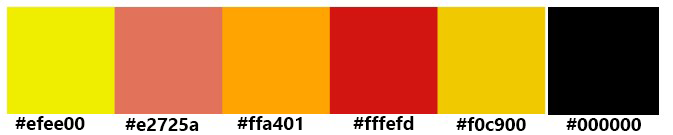
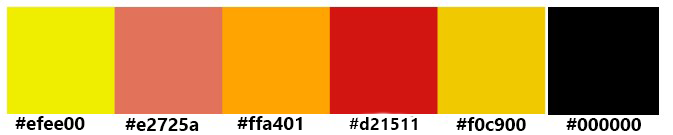
Start on Contact.html
Rae will finish?

Changed region(s): [[0.4993, 0.8296, 0.6241, 0.9778]]

diff --git a/contact.html b/contact.html
@@ -1,0 +1,172 @@
+<!doctype html>
+<html lang="en">
+<head>
+<meta charset="utf-8">
+	<meta name="viewport" content="width=device-width, initial-scale=1">
+<title>FBYD</title>
+<link href="css/bootstrap-grid.min.css">
+<link href="css/style.css" rel="stylesheet" type="text/css">
+<meta name="viewport" content="width=device-width, initial-scale=1.0">	
+	<div class="topnav">
+	 <a href="index.html">FBYD</a>
+	<a href="menu.html">Menu</a>
+	<a href="bingo.html">Bingo</a>
+	<a href="index.html">Blog</a>
+	<a href="about us.html">About us</a>
+	<a href="index.html">Contact</a>
+	<a href="design.html">Design</a>
+	<a href="javascript:void(0);" class="icon" onclick="myFunction()">
+    <i class="fa fa-bars"></i>
+	</a>
+	</div>
+	
+</head>
+	<style>
+		body{background-image: url("images/BACKGROUND.png");}
+		footer {
+  text-align: center;
+  
+  background-color:#FF0004;
+  color: white;
+}
+	</style>
+	<body>
+		
+<div class="container">
+	
+	<div class="tittle">
+	<h1>
+	THE #1 FRIED FOOD SPOT
+	</h1>
+		</div>
+	
+  <div class="row">
+    <div class="col-4">
+<h1>
+	Contact us!
+</h1>     
+<div class="contact">
+  <form action="action_page.php">
+
+    <label for="fname">First Name</label>
+    <input type="text" id="fname" name="firstname" placeholder="Your name..">
+
+    <label for="lname">Last Name</label>
+    <input type="text" id="lname" name="lastname" placeholder="Your last name..">
+
+    <label for="city">Nearest FBYD</label>
+    <select id="city" name="city">
+      <option value="breda">Breda</option>
+      <option value="eindhoven">Eindhoven</option>
+      <option value="amsterdam">Amsterdam</option>
+      <option value="rotterdam">Rotterdam</option>
+      <option value="denbosch">Den Bosch</option>
+      <option value="leiden">Leiden</option>
+      <option value="haarlem">Haarlem</option>
+      <option value="groningen">Groningen</option>
+      <option value="leeuwarden">Leeuwarden</option>
+      <option value="middelburg">Middelburg</option>
+      <option value="vlissingen">Vlissingen</option>
+      <option value="arnhem">Arnhem</option>
+      <option value="utrecht">Utrecht</option>
+      <option value="denhaag">Den Haag</option>
+    </select>
+	<div>
+    <label for="subject">Subject</label>
+    <textarea id="subject" name="subject" placeholder="Write something.." style="height:200px"></textarea>
+
+    <input type="submit" value="Submit">
+	</div>
+  </form>
+  <div class="col-4">
+  	Thank You!
+  </div>
+</div>
+    </div>
+    <div class="col-6">
+      <img class="img-fluid" src="images/LOGO_FBYD.jpg" alt="logo">
+    </div>
+	
+</div>
+	
+	<div class="container">
+		<div class="menu">
+	<h1 class = "fryhits"> Come try our fried hits!</h1>
+	</div>
+  <div class="row">
+    <div class="col-2">
+      <p> <b>
+		  Cajun corndogs
+		  </b> </p>
+		 <img class="img-fluid" src="images/CORNDOGS.png" alt="menu">
+    </div>
+    <div class="col-2">
+       <p>
+		   <b>
+		  Eggrolls 
+		   </b></p>
+		<img class="img-fluid" src="images/EGGROLLS.png" alt="menu">
+    </div>
+    <div class="col-2">
+		<b>
+		<p> Fried chicken </p>
+			</b>
+		<img class="img-fluid" src="images/FRIEDCHICKEN.jpg" alt="menu">
+    </div>
+	  <div class="col-2">
+		  <b>
+		  <p> Frikandel speciaal </p>
+		  </b>
+      
+		<img class="img-fluid" src="images/FRIKANDEL.png" alt="menu">
+		  
+    </div>
+	  <div class="col-2">
+      <p>
+		  <b>
+			  Cheese sticks
+		  </b> </p>
+		  <img class="img-fluid" src="images/CHEESESTICKS.png" alt="menu">
+    </div>
+	  <div class="col-2">
+		  <b>
+		  <p> Chicken nuggets </p>
+		  </b>
+		    
+ <img class="img-fluid" src="images/NUGGETS.png" alt="menu">
+    </div>
+  </div>
+		<div class="row">
+			<div class="col-6">
+      <p class="menutext"> Every snack platter includes a portion of french fries.</p>
+    </div>
+		<div class="col-6">
+			<b>
+			<p>FBYD is not only your favorite snack bar but also an ambassador of the fried food movement. Learn more about fried food by reading our blogs and participating in our bingo rounds. Become part of the community!
+		    </p>
+			</b>
+      
+    </div>
+		
+		</div>
+		
+</div>
+		
+		<div class="container">
+<button type="button" class="btn btn-danger btn-lg">Menu</button>
+<button type="button" class="btn btn-danger btn-lg">Articles</button>
+		</div>
+		
+		<footer>
+			<b>
+			  <p>School Project PR4/PR5</p>
+			</b>
+
+  <p><a href="https://www.buas.nl/">BUas</a></p>
+</footer>
+		
+		
+
+<script src="js/bootstrap.min.js"></script>
+</body>
+</html>

diff --git a/css/style.css b/css/style.css
@@ -97,3 +97,36 @@ margin-bottom: 30px;}
 }
 
 
+input[type=text], select, textarea {
+  width: 100%;
+  padding: 12px;
+  border: 1px solid #e2725a;
+  border-radius: 4px; 
+  box-sizing: border-box; 
+  margin-top: 6px; 
+  margin-bottom: 16px; 
+  resize: vertical 
+
+
+input[type=submit] {
+  background-color: #e2725a;
+  color: #F0C900;
+  padding: 12px 20px;
+  border: none;
+  border-color:#d21511;
+  border-radius: 4px;
+  cursor: pointer;
+}
+
+
+input[type=submit]:hover {
+  background-color: #F0C900;
+}
+
+
+.contact {
+  border-radius: 5px;
+  background-color: #efee00;
+  padding: 20px;
+}
+
